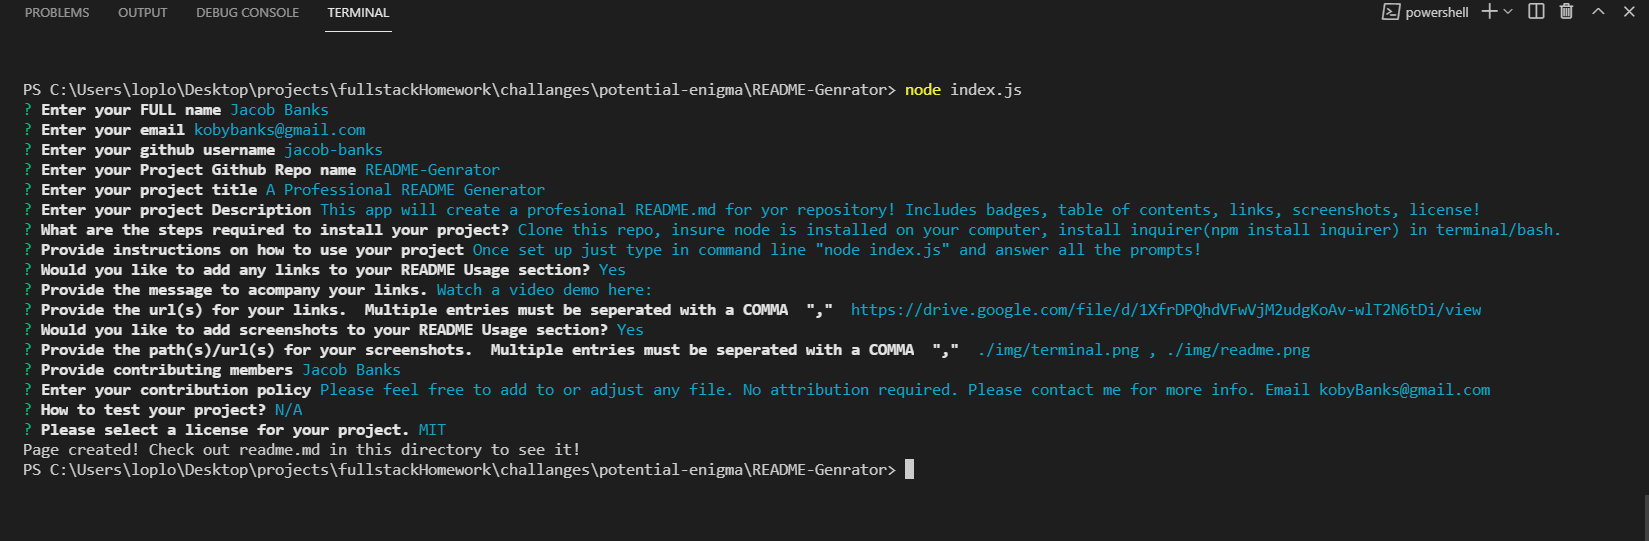
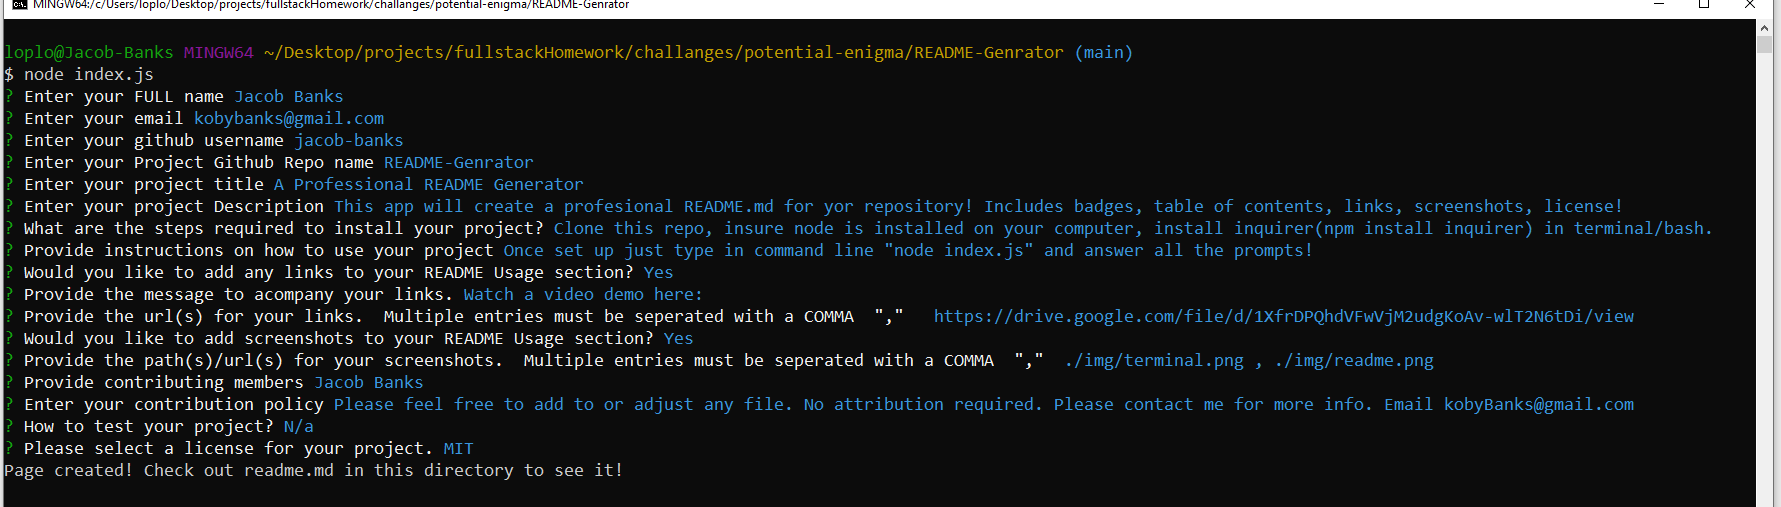
updated img added video

Changed region(s): [[0.0, 0.0, 1.0, 1.0]]

diff --git a/README.md b/README.md
@@ -1,46 +1,49 @@
+# A Professional README Generator
 
-  # A Professional README Generator
-  ![GitHub](https://img.shields.io/github/license/jacob-banks/README-Genrator)
-  ![GitHub language count](https://img.shields.io/github/languages/count/jacob-banks/README-Genrator)
-  ![GitHub top language](https://img.shields.io/github/languages/top/jacob-banks/README-Genrator)
+![GitHub](https://img.shields.io/github/license/jacob-banks/README-Genrator)
+![GitHub language count](https://img.shields.io/github/languages/count/jacob-banks/README-Genrator)
+![GitHub top language](https://img.shields.io/github/languages/top/jacob-banks/README-Genrator)
 
-  
-  ## Description
-  This app will create a profesional README.md for yor repository! Includes badges, table of contents, links, screenshots, license!
-  
-  ## Table of Contents
+## Description
 
-  * [Installation](#installation)
-  * [Usage](#usage)
-  * [Credits](#credits)
-  * [License](#license)
+This app will create a profesional README.md for yor repository! Includes badges, table of contents, links, screenshots, license!
 
+## Table of Contents
 
-  ## Installation
-  Clone this repo, insure node is installed on your computer, install inquirer(npm install inquirer) in terminal/bash.
-  
-  ## Usage 
-  Once set up just type in command line "node index.js" and answer all the prompts!
-  ![screenshot1](./img/terminal.png)![screenshot2](./img/readme.png)
-  Watch a video demo here: https://drive.google.com/file/d/1XfrDPQhdVFwVjM2udgKoAv-wlT2N6tDi/view
+- [Installation](#installation)
+- [Usage](#usage)
+- [Credits](#credits)
+- [License](#license)
 
-  ## Credits
-  Jacob Banks
+## Installation
 
-  ## License
+Clone this repo, insure node is installed on your computer, install inquirer(npm install inquirer) in terminal/bash.
 
-  This project is [MIT](https://choosealicense.com/licenses/mit/) licensed.<br />
-  Copyright © 2021 [JACOB BANKS](https://github.com/jacob-banks)
+## Usage
 
-  
+Once set up just type in command line "node index.js" and answer all the prompts!
+![screenshot1](./img/terminal.png)![screenshot2](./img/readme.gif)
+Watch a video demo here: https://drive.google.com/file/d/1FSojp9lFWQht4rO7cTQR0hyeyfxLziz2/view?usp=sharing
 
-  ## Contributing
-  Please feel free to add to or adjust any file. No attribution required. Please contact me for more info. Email kobyBanks@gmail.com
+## Credits
 
-  ## Tests
-  N/A
+Jacob Banks
 
-  ## Questions
-  Contact Jacob Banks with any questions!<br>
-  Github link: [jacob-banks](https://github.com/jacob-banks)<br>
-  Email: kobybanks@gmail.com
+## License
+
+This project is [MIT](https://choosealicense.com/licenses/mit/) licensed.<br />
+Copyright © 2021 [JACOB BANKS](https://github.com/jacob-banks)
+
+## Contributing
+
+Please feel free to add to or adjust any file. No attribution required. Please contact me for more info. Email kobyBanks@gmail.com
+
+## Tests
+
+N/a
+
+## Questions
+
+Contact Jacob Banks with any questions!<br>
+Github link: [jacob-banks](https://github.com/jacob-banks)<br>
+Email: kobybanks@gmail.com
